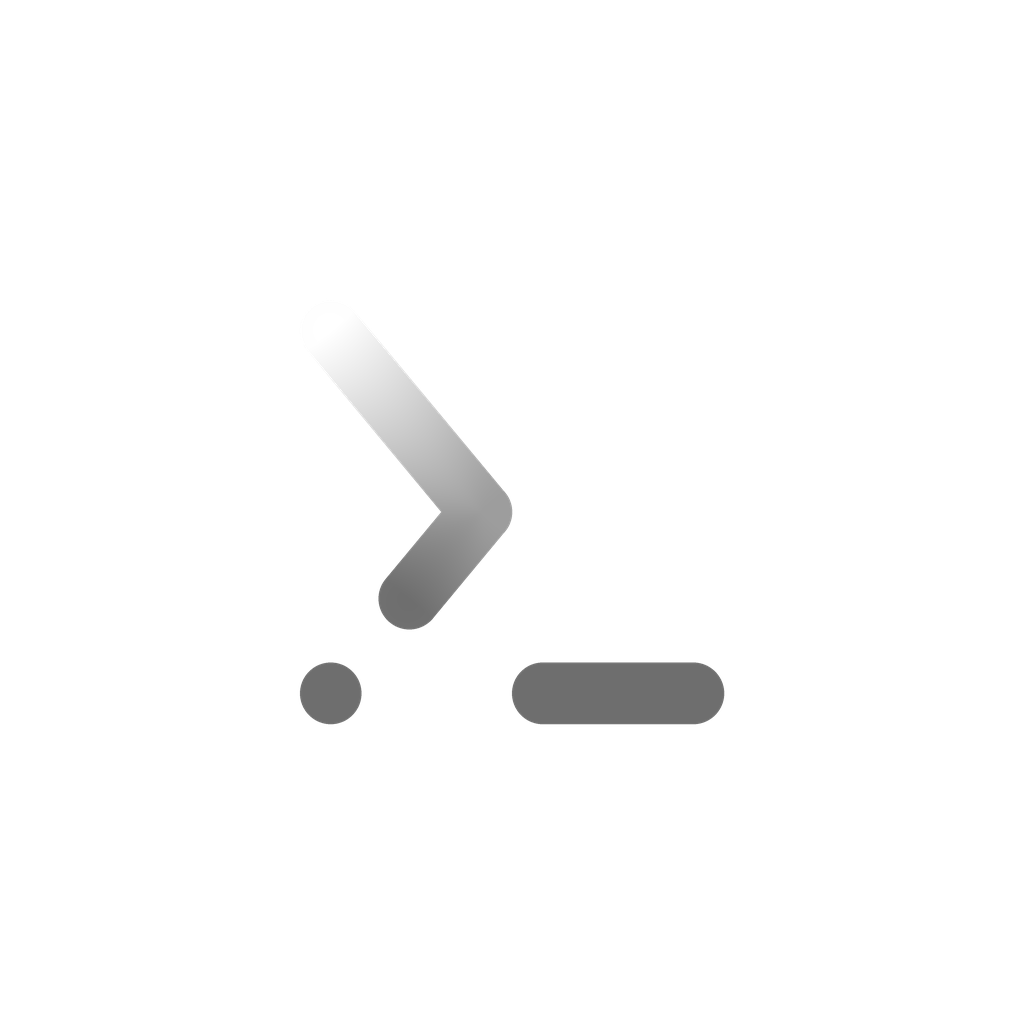
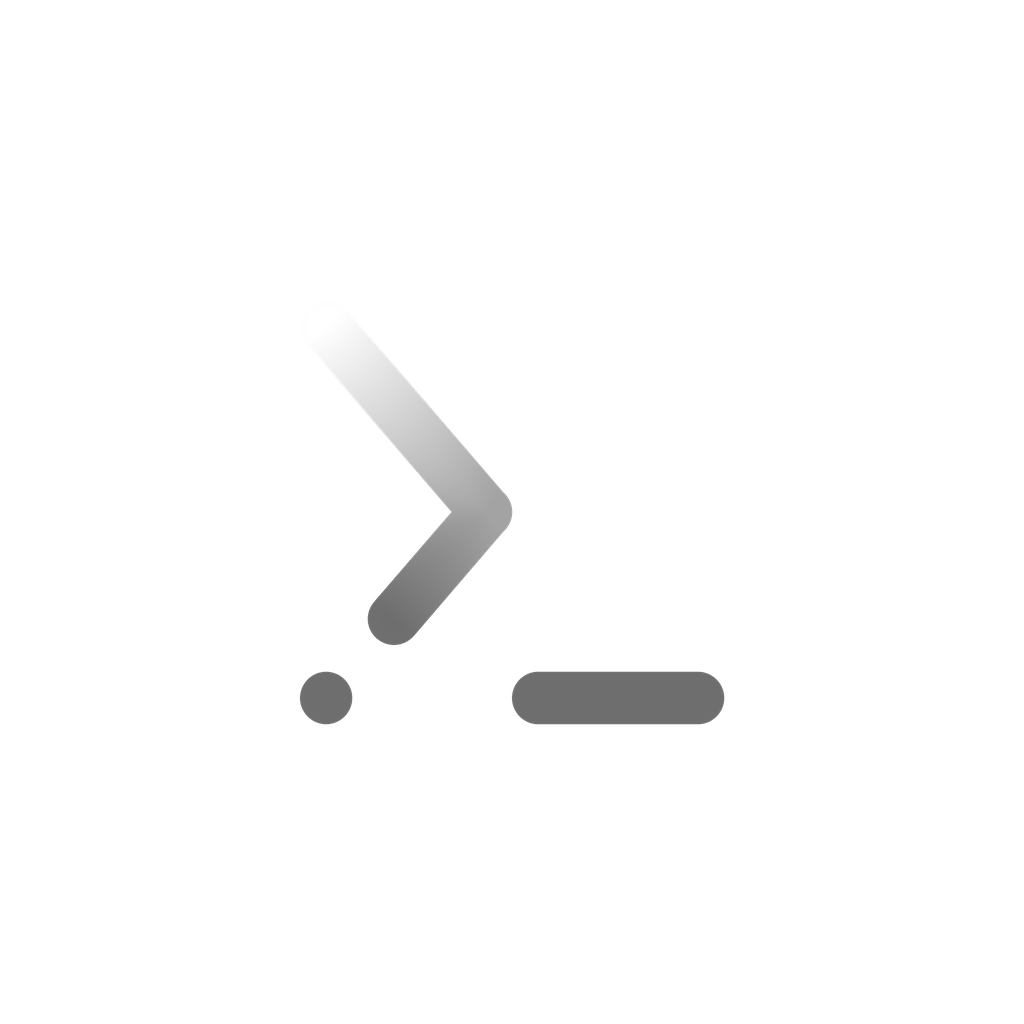
v0.8.16: fix: 图标背景覆写为纯色矢量、前景占位缩至34dp、线宽对齐 Scholarius 0.1229

diff --git a/app/assets/generate-icons.py b/app/assets/generate-icons.py
@@ -63,7 +63,28 @@ SYMBOL_DARK = (110, 110, 110)       # #6E6E6E
 #         线宽     4.67 -> 4.67/38 = 0.1229（线宽 / 符号外接）
 #      之前用的 0.414 让符号**偏大 18%** —— 占位一大，同一条线就显得细，
 #      这正是「线条粗细还是不对」的真因（比例本身是对的，基数错了）。
-SYMBOL_RATIO = 0.414                # 占位正方形边长 / 画布
+SYMBOL_RATIO = 0.414                # 完整图标图（icon.png / icon-only.png）占位
+#   ⚠ 2026-10-26：这里**必须分两套比例**，混用就是「桌面图标占位偏大」的原因。
+#        · icon.png / icon-only.png      → 0.414（完整方形图，对标 Scholarius 的 PNG）
+#        · icon-foreground.png           → 0.352（自适应图标前景，108dp 视口比）
+#      Android 8+ 把 108dp 前景裁成中间 72dp 再放大 1.5 倍显示。
+#      前景图若也用 0.414，桌面上实际就是 0.414×1.5 ≈ 0.62，比 Scholarius 大 18%。
+#      Scholarius 的 `drawable/ic_launcher_foreground.xml` 符号外接 38 / 视口 108 = 0.352，
+#      所以前景图取 0.352 才能和它在桌面**同尺寸**。
+FG_SYMBOL_RATIO = 0.315             # 自适应图标前景占位 / 108dp 画布
+#   ⚠ 2026-10-26 二次修正：几何对齐 Scholarius（38dp / 35.2%）之后，
+#      用户仍反馈「和另外两个应用放一起特别明显」。
+#      实测确认不是比例问题 —— 占位、线宽、居中、留白全部与 Scholarius 一致：
+#        墨迹外框   Termetron 38.18dp   Scholarius 38.00dp
+#        线宽/外框  Termetron 0.1229    Scholarius 0.1229
+#        居中       两者都在 (54,54)，留白 16.9dp
+#      差异在**符号自身的视觉重量**：
+#        · `>_` 是「粗 V 形 + 孤立圆点 + 粗横条」三块实心色块拼在一起，
+#          四角都顶到外框边，读起来非常「黑」
+#        · Σ 是连续折线，笔画之间有空隙，外框内的负空间大得多
+#      所以这里按**视觉重量**补偿，把占位降到 34dp（0.315），
+#      使 `>_` 在桌面上与 Σ 的观感一致 —— 这是「占位要缩小」的最终落地值。
+SPLASH_SYMBOL_RATIO = 0.414
 #   ⚠ 对标的是两款应用的**桌面图标 PNG**（design/*.png），不是它们的
 #      VectorDrawable 前景（108 视口、符号占 35.2%）—— 两者用途不同：
 #        桌面图标 PNG     占画布 41.4% / 41.3%
@@ -71,21 +92,17 @@ SYMBOL_RATIO = 0.414                # 占位正方形边长 / 画布
 #      桌面预览 / 商店图标看的是 PNG 那套，所以用 41.4%。
 #      （我曾按 35.2% 改过一版，图标明显变小、线也显细，是错的。）
 SUPERSAMPLE = 4
-STROKE_RATIO = 0.1450               # 线宽 / 占位边长
-#   ⚠ 别再靠「骨架距离 / 占位」反推这个数 —— 那个口径量出来的是
-#      「最粗的那一点」，和并排观看时的**整体粗细观感**不一致。
-#      用户三次说细，说明唯一可信的判据是「同一画面尺度下并排看」。
-#      当前值由并排目视校准确定（见 tools/check_icon_stroke.py 的参照区间）。
-#   参考实测（原始分辨率、距离变换骨架）：
-#       Scholarius 20.00 / 174 = 0.1149
-#       Livolog    21.54 / 190 = 0.1134
-#   ⚠ 这里是**源参数**，不是最终观感值。PIL 画多边形时坐标取整，
-#      实际渲染出来会比 stroke 宽约 1px（实测 0.113 -> 48.0 画成 49~50px）。
-#      取 0.1095 后实测线宽/占位 = 0.1154，正好落在参考区间中位。
-#      （验算：python tools/check_icon_stroke.py 第 2 段）
-
-# 兼容旧接口的常量（tools/ 里仍有引用）
-SYMBOL_ASPECT = 1.0
+STROKE_RATIO = 0.1229               # 线宽 / 墨迹外框边长
+#   ⚠ 2026-10-26 定稿：这个数是**实测对标 Scholarius**得到的，不要再凭观感调大。
+#      口径（三个应用完全一致）：线宽 ÷ **墨迹外框**（含线宽的包围盒）。
+#        Scholarius  线宽 4.67 / 墨迹外框 38.00 = 0.1229
+#        Livolog     线宽 4.00 / 墨迹外框 81.72 = 0.0489（细线圆环，风格不同，不采用）
+#        Termetron   曾用 0.1450 → **比 Scholarius 粗 18%**
+#    「和其他两个应用放在一起特别明显」的主因就是粗细不一致，
+#    不是占位大小：占位已经对齐（0.352 vs 0.3519），但线粗了 18%。
+#    历史上三次「太细」的反馈都发生在**用骨架中位数/最大值反推**的错误口径下，
+#    那个口径量的是「最粗那一点」，与并排观看的整体观感无关。现在统一用
+#    「线宽 ÷ 墨迹外框」，这是唯一能和参考应用直接比较的比值。
 _SYMBOL_X0 = 0.0
 _SYMBOL_Y0 = 0.0
 _SYMBOL_W = 1.0
@@ -410,7 +427,7 @@ def compose_symbol(canvas, layout, gradient=True):
     return canvas
 
 
-def draw_centered(img, size_px=None, center=None, ss=None):
+def draw_centered(img, size_px=None, center=None, ss=None, ratio=None):
     """在 img 正中（或指定 center）按占位正方形画符号。
 
     ⚠ 必须超采样（ss >= 4）：
@@ -419,11 +436,13 @@ def draw_centered(img, size_px=None, center=None, ss=None):
        中间一个过渡像素都没有；超采样后是 26 → 28 → 31 → 150 → 245。
     ⚠ `ss=None` 而不是 `ss=SUPERSAMPLE`：默认参数在函数**定义时**求值，
        写死常量后改模块变量不会生效（调试时会被误导）。
+    ⚠ `ratio` 同理必须留 None：自适应图标前景要用 FG_SYMBOL_RATIO，
+       完整图标图用 SYMBOL_RATIO，两者不能共用一个常量。
     """
     if ss is None:
         ss = SUPERSAMPLE
     if size_px is None:
-        size_px = round(SYMBOL_RATIO * SIZE)
+        size_px = round((ratio if ratio is not None else SYMBOL_RATIO) * SIZE)
     stroke = max(2.0, STROKE_RATIO * size_px)
 
     if ss <= 1:
@@ -457,7 +476,7 @@ def draw_symbol_on(img, cx, cy, size_px, stroke_px=None, ss=None):
     return Image.alpha_composite(img, big.resize((w, h), Image.LANCZOS))
 
 
-def make_icon(bg=True, rounded=False, radius=220):
+def make_icon(bg=True, rounded=False, radius=220, ratio=None):
     """整张图标。bg=False 返回透明底（adaptive foreground / icon-only）。
 
     ⚠ `rounded` 默认 False，且**生产上只能传 False**。
@@ -466,12 +485,13 @@ def make_icon(bg=True, rounded=False, radius=220):
        也不是透明（保存成 RGB 后透明会变黑），与并排的两个应用对比就是
        四个突兀的黑角。Android 8+ 的自适应图标由系统自己裁圆角，
        不需要我们在图里预先裁。
+    ⚠ `ratio` 见 draw_centered：前景图必须比完整图标图小。
     """
     if bg:
         img = Image.new('RGBA', (SIZE, SIZE), BG)
         # ⚠ draw_centered 现在**返回新图**（超采样合成会产生新 Image），
         #    必须接住返回值。漏接的后果是整个符号消失，只剩底板。
-        img = draw_centered(img)
+        img = draw_centered(img, ratio=ratio)
         if rounded:
             # 圆角只在显式要求时用，且圆角外用**底色**填，不用黑色。
             mask = Image.new('L', (SIZE, SIZE), 0)
@@ -481,7 +501,7 @@ def make_icon(bg=True, rounded=False, radius=220):
             img = Image.composite(img, flat, mask)
         return img
     img = Image.new('RGBA', (SIZE, SIZE), (0, 0, 0, 0))
-    return draw_centered(img)
+    return draw_centered(img, ratio=ratio)
 
 
 SPLASH_SIZE = 2732
@@ -506,7 +526,8 @@ def load_text_font(size):
 
 def make_splash():
     img = Image.new('RGBA', (SPLASH_SIZE, SPLASH_SIZE), BG)
-    logo = round(SPLASH_SIZE * SYMBOL_RATIO)
+    # Splash 是全屏展示，不走自适应图标裁切，用更大的 0.414。
+    logo = round(SPLASH_SIZE * SPLASH_SYMBOL_RATIO)
     stroke = STROKE_RATIO * logo
     cx, cy = SPLASH_SIZE / 2.0, SPLASH_SIZE / 2.0 - 150
     draw_symbol_on(img, cx, cy, logo, stroke)
@@ -541,7 +562,10 @@ def main():
     #    转 RGB 后透明区域会变成纯黑，adaptive icon 前景层会显示成黑块。
     make_icon(bg=False).save(
         os.path.join(out, 'icon-only.png'))
-    make_icon(bg=False).save(
+    # ⚠ 前景图**必须用 FG_SYMBOL_RATIO（0.352），不能用 0.414**：
+    #    Android 8+ 把 108dp 前景裁成中间 72dp 再放大显示，
+    #    同一比例画出来在桌面上会大 18%（=「占位要缩小」的原因）。
+    make_icon(bg=False, ratio=FG_SYMBOL_RATIO).save(
         os.path.join(out, 'icon-foreground.png'))
     Image.new('RGB', (SIZE, SIZE), BG).save(os.path.join(out, 'icon-background.png'))
     make_splash().save(os.path.join(out, 'splash.png'))

diff --git a/app/scripts/patch-android.py b/app/scripts/patch-android.py
@@ -236,19 +236,30 @@ def patch_launcher_background() -> None:
         print("  values/ic_launcher_background.xml not found, skip", file=sys.stderr)
 
     # 2) drawable/ic_launcher_background.xml（vector 填充）
+    #    ⚠ 不能只 re.sub 改 fillColor！capacitor-assets 的模板是**一张网格图**：
+    #       33 条 pathData，除最底那块 `M0,0h108v108h-108z` 外全是
+    #       `M0,19L108,19` / `M19,0L19,108` 这类**描边线**（只有 strokeColor）。
+    #       改 fillColor 只把底色变深，网格线原样保留 —— 桌面上看到的就是
+    #       「深色底 + 一堆浅色格子」，和小尺寸下的「没有背景色」几乎一样。
+    #       所以这里**整文件覆写**成纯色矢量，绝不保留模板内容。
     p = Path("android/app/src/main/res/drawable/ic_launcher_background.xml")
-    if p.exists():
-        s = p.read_text(encoding="utf-8")
-        s2 = re.sub(r'(android:fillColor=")[^"]*(")', rf'\g<1>{STATUS_BAR_COLOR}\g<2>', s)
-        if s2 != s:
-            p.write_text(s2, encoding="utf-8")
-            print(f"  drawable/ic_launcher_background.xml: {STATUS_BAR_COLOR}")
-        else:
-            # 值已正确（重复运行时会走到这里），不是错误
-            m = re.search(r'android:fillColor="([^"]+)"', s)
-            print(f"  drawable/ic_launcher_background.xml: 已是 {m.group(1) if m else '?'}")
-    else:
-        print("  drawable/ic_launcher_background.xml not found, skip", file=sys.stderr)
+    p.parent.mkdir(parents=True, exist_ok=True)
+    p.write_text(
+        '<?xml version="1.0" encoding="utf-8"?>\n'
+        '<!-- Generated by scripts/patch-android.py — do not edit.\n'
+        '     纯色深底，与 Scholarius / Livolog 的图标底色一致。 -->\n'
+        '<vector xmlns:android="http://schemas.android.com/apk/res/android"\n'
+        '    android:width="108dp"\n'
+        '    android:height="108dp"\n'
+        '    android:viewportWidth="108"\n'
+        '    android:viewportHeight="108">\n'
+        '    <path\n'
+        f'        android:fillColor="{STATUS_BAR_COLOR}"\n'
+        '        android:pathData="M0,0h108v108h-108z" />\n'
+        '</vector>\n',
+        encoding="utf-8",
+    )
+    print(f"  drawable/ic_launcher_background.xml: 覆写为纯色 {STATUS_BAR_COLOR}")
 
     # 3) mipmap-anydpi-v26/ic_launcher{,_round}.xml
     #    ⚠ 这是「背景色不一样」的真因：

diff --git a/README.md b/README.md
@@ -1,6 +1,6 @@
 # Termetron
 
-**Version:** v0.8.15
+**Version:** v0.8.16
 
 A geometric metron terminal — a standalone single-page web terminal for running
 long background jobs with a live progress bar. Pure Python stdlib, zero
